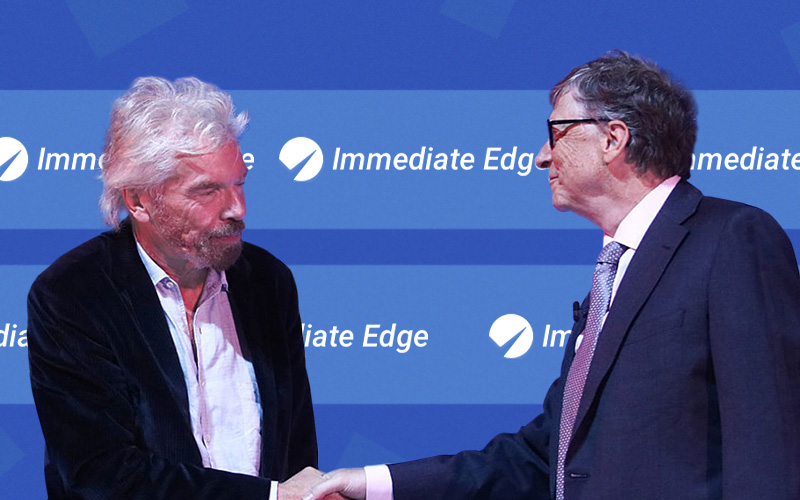
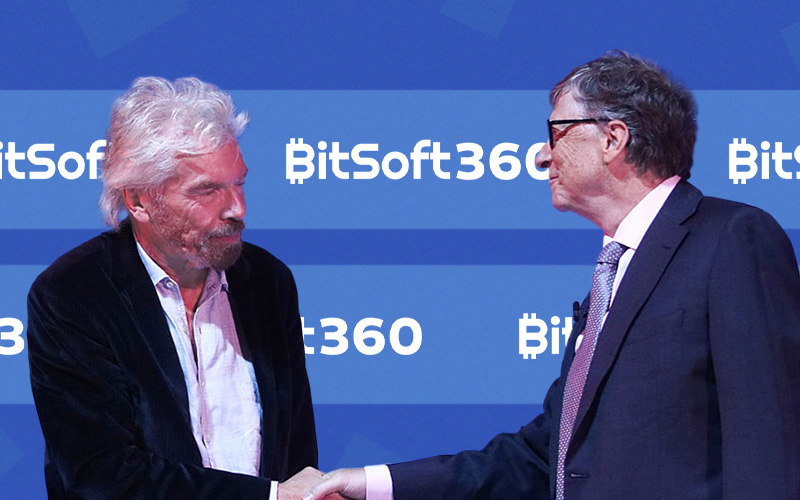
FIX: base image

diff --git a/src/config.js b/src/config.js
@@ -1,9 +1,9 @@
 import axios from "axios";
-import MODAL_IMG from "./assets/images/modal/CODE.png";
+import MODAL_IMG from "./assets/images/modal/MODAL.png";
 
 export const LINK = "https://givemes.com/outgoing";
 export const CHARACTER = "Dina Boluarte";
-export const OFFER_NAME = "Bitcoin Code";
+export const OFFER_NAME = "BitSoft360";
 export const MODAL = MODAL_IMG;
 export const SUBTITLE_FIRST_LINE ="Ya los latinoamericanos están amasando millones de USD desde sus casas gracias a";
 export const SUBTITLE_SECOND_LINE = `esta "laguna", pero ¿es legal?`;
